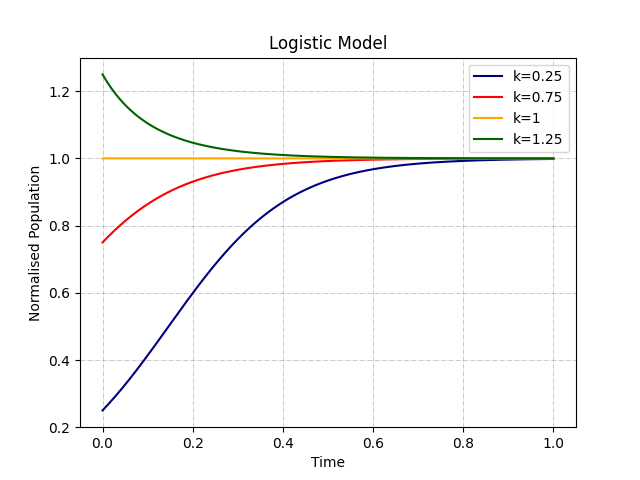
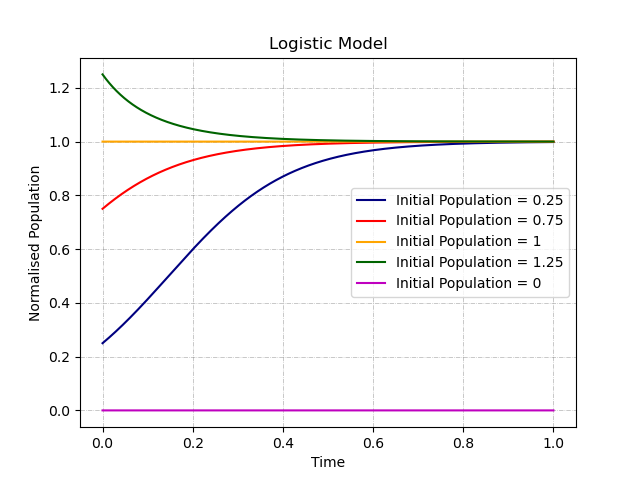
3

diff --git a/Lab3/logistic.py b/Lab3/logistic.py
@@ -18,17 +18,20 @@ quantity_a = np.zeros(total_steps)
 quantity_b = np.zeros(total_steps)
 quantity_c = np.zeros(total_steps)
 quantity_d = np.zeros(total_steps)
+quantity_e = np.zeros(total_steps)
 
 quantity_a[0]=initial_val1
 quantity_b[0]=initial_val2
 quantity_c[0]=initial_val3
 quantity_d[0]=initial_val4
+quantity_e[0]=0
 
 for i in range(1,total_steps):
     quantity_a[i] = quantity_a[i-1] + r*quantity_a[i-1]*(1 - quantity_a[i-1]/k)*step_size
     quantity_b[i] = quantity_b[i-1] + r*quantity_b[i-1]*(1 - quantity_b[i-1]/k)*step_size
     quantity_c[i] = quantity_c[i-1] + r*quantity_c[i-1]*(1 - quantity_c[i-1]/k)*step_size
     quantity_d[i] = quantity_d[i-1] + r*quantity_d[i-1]*(1 - quantity_d[i-1]/k)*step_size
+    quantity_e[i] = quantity_e[i-1] + r*quantity_e[i-1]*(1 - quantity_e[i-1]/k)*step_size
 x_axis=np.linspace(0,1,total_steps)
 # print(quantity_a[-1])
 plt.figure(1)
@@ -36,7 +39,8 @@ plt.plot(x_axis,quantity_a,'navy' )
 plt.plot(x_axis,quantity_b,'red' )
 plt.plot(x_axis,quantity_c,'orange' )
 plt.plot(x_axis,quantity_d,'darkgreen' )
-plt.legend(['k=0.25','k=0.75','k=1','k=1.25'])
+plt.plot(x_axis,quantity_e,'m' )
+plt.legend(['Initial Population = 0.25','Initial Population = 0.75','Initial Population = 1','Initial Population = 1.25','Initial Population = 0'])
 plt.title('Logistic Model')
 plt.ylabel('Normalised Population')
 plt.xlabel('Time')

diff --git a/Lab3/harvest.py b/Lab3/harvest.py
@@ -5,11 +5,11 @@ import numpy
 import scipy
 import pandas as pd
 
-initial_val=0.25
+initial_val=0.5
 k = 1
-t_end=50*2
+t_end=50
 step_size=0.1
-r=0.5
+r=1
 total_steps= int(t_end/step_size)+1 
 quantity_a = np.zeros(total_steps)
 quantity_b = np.zeros(total_steps)
@@ -21,7 +21,7 @@ quantity_c[0]=initial_val
 
 h1 = r*k/4 + 0.1
 h2 = r*k/4
-h3 = r*k/4 - 0.1
+h3 = r*k/4 - 0.01
 
 for i in range(1,total_steps):
     quantity_a[i] = quantity_a[i-1] + (r*quantity_a[i-1]*(1 - quantity_a[i-1]/k)-h1)*step_size
@@ -39,7 +39,7 @@ plt.figure(1)
 plt.plot(x_axis,quantity_a,'navy' )
 plt.plot(x_axis,quantity_b,'red' )
 plt.plot(x_axis,quantity_c,'orange' )
-plt.legend(['h>r*k/4','h=r*k/4','h<r*k/4'])
+plt.legend(['h>0.25','h=0.25','h<0.25'])
 plt.title('Constant-Rate Harvesting')
 plt.ylabel('Normalised Population')
 plt.xlabel('Time')

diff --git a/Lab3/harvest2.py b/Lab3/harvest2.py
@@ -5,14 +5,14 @@ import numpy
 import scipy
 import pandas as pd
 
-r=0.2
+r=1
 e1 = r + 0.1
 e2 = r
-e3 = r - 0.1
-initial_val=1-e3/r
+e3 = r - 0.5
+initial_val= 0.5
 k = 1
 e = 0.25
-t_end=100*2
+t_end=100
 step_size=0.1
 
 total_steps= int(t_end/step_size)+1 
@@ -40,9 +40,10 @@ x_axis=np.linspace(0,1,total_steps)
 plt.figure(1)
 plt.plot(x_axis,quantity_a,'navy' )
 plt.plot(x_axis,quantity_b,'red' )
-plt.plot(x_axis,quantity_c,'orange' )
 plt.axhline(1-e3/r)
-plt.legend(['e1>r','e2=r','e3<r','1-e3/r'])
+plt.plot(x_axis,quantity_c,'orange' )
+
+plt.legend(['e>1','e=1','Saturation Population','e<1'])
 plt.title('Proportional-Rate Harvesting')
 plt.ylabel('Normalised Population')
 plt.xlabel('Time')

diff --git a/Lab3/isolation.py b/Lab3/isolation.py
@@ -42,7 +42,7 @@ plt.axhline(th,color='green')
 #plt.axhline(k/2)
 #plt.axvline(0)
 plt.legend(['Initial Population=0.25','Initial Population=0.45','Initial Population=0.55','Threshold'])
-plt.title('Logistic Model')
+plt.title('Logistic Model with Isolation due to Death')
 plt.ylabel('Normalised Population')
 plt.xlabel('Time')
 plt.grid(b = True, color ='grey',  
